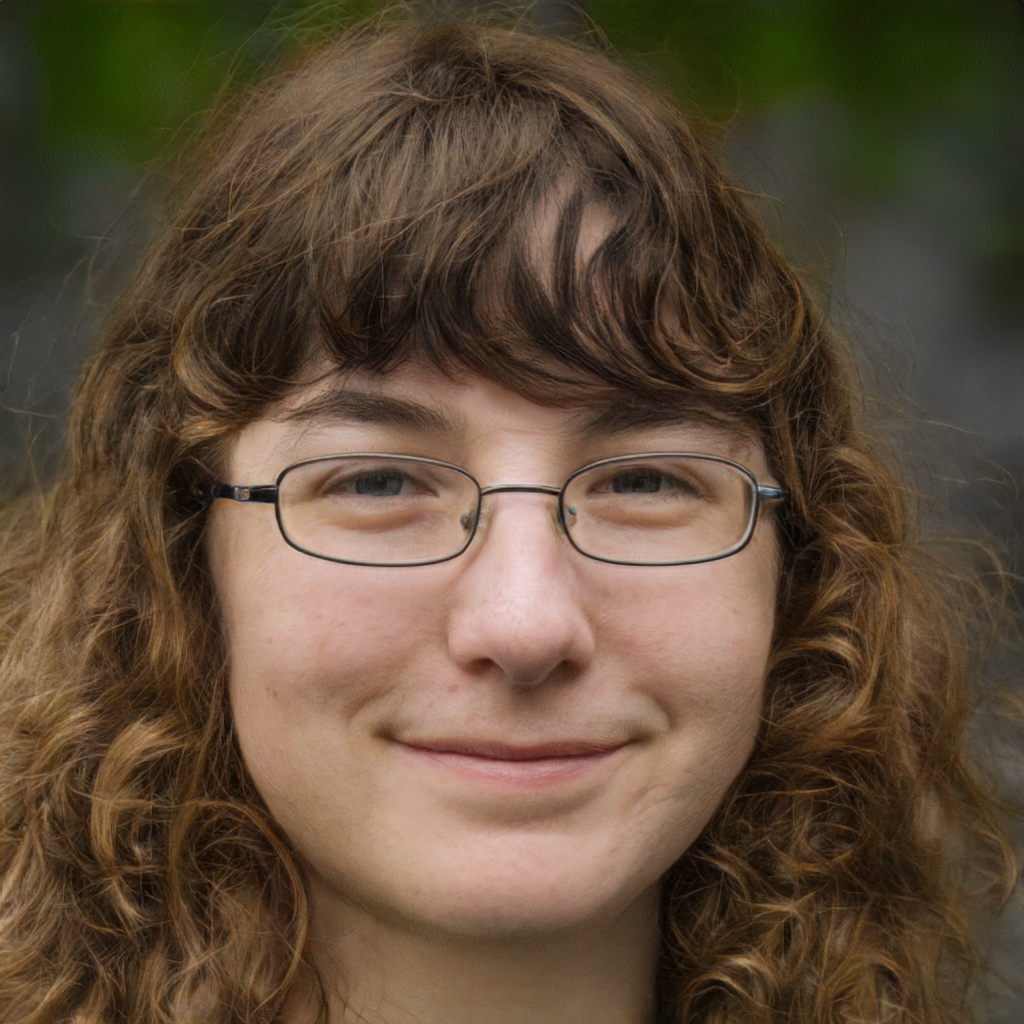
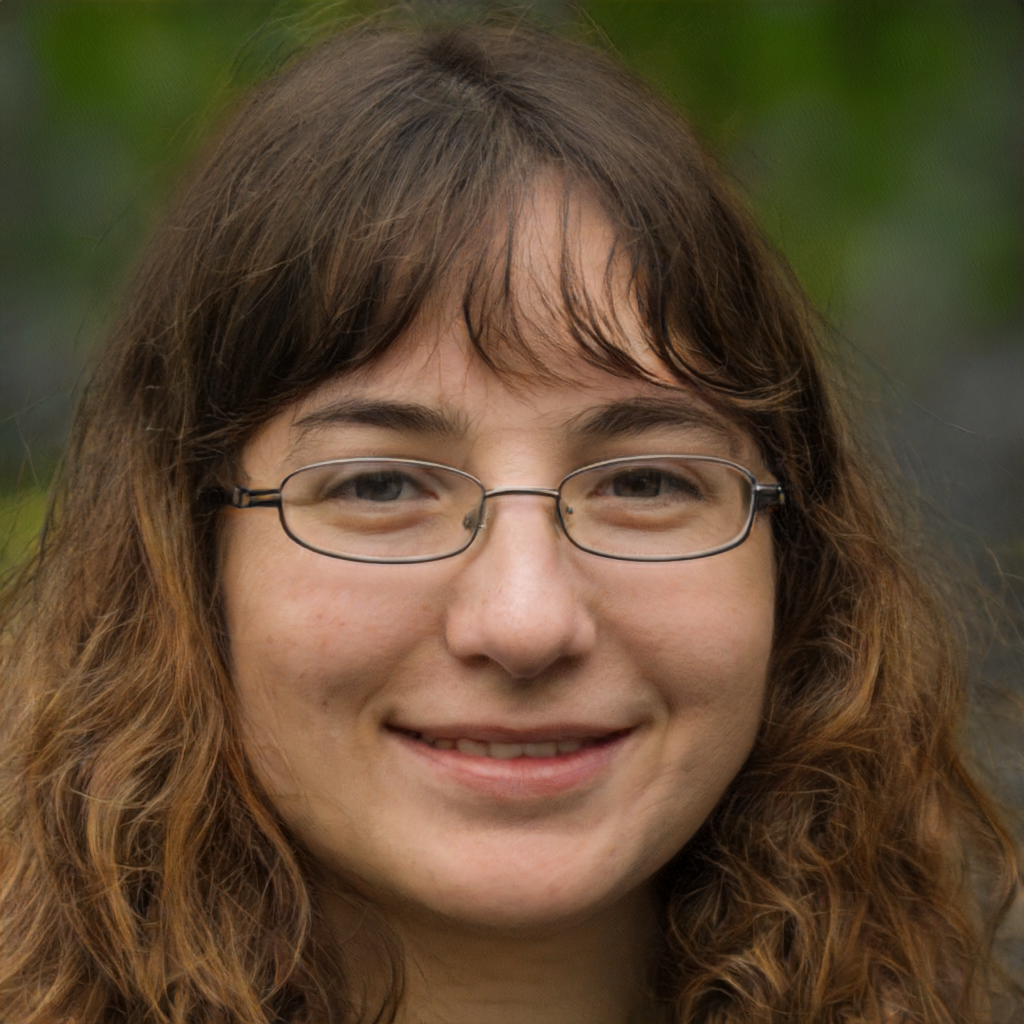
add function for various space of latent

diff --git a/Edit_Framework.py b/Edit_Framework.py
@@ -7,7 +7,7 @@ from NST.transfer_inference import style_transform
 from StyleGAN_edit.inference import random_gen,inference_core
 from StyleGAN_edit.InterFaceGAN import get_InterFaceGAN_move_direction
 from StyleGAN_edit.MakeUp import get_mixing_dlatent
-from Utils import get_file_name
+from Utils import get_file_name, latent_post_process
 from scipy import misc
 from tkinter import ttk   #用ttk的按钮，不会出现文字不显示的问题
 from Utils import check_dir
@@ -15,10 +15,11 @@ from tkinter import *
 from tkinter.filedialog import *
 from PIL import Image, ImageTk
 
+latent_str=["Z","W","W+"]
 image_height,image_width = 880, 880
 small_image_shape = (256, 256)
 org_path = "StyleGAN_edit/data/2020_09_21_13_06_52.jpg"
-latent_path = "StyleGAN_edit/data/2020_09_21_13_06_52.npy"
+latent_path = "StyleGAN_edit/data/2020_09_21_13_06_52_W.npy"
 
 class Edit_Framework():
     def __init__(self,master):
@@ -31,7 +32,8 @@ class Edit_Framework():
         #初始的一些配置
         self.temp_save_dir = check_dir("temp_dir")
         self.image_exp_NST = self.cur_image = self.org_image = misc.imread(org_path) #图像都是原1024 x 1024大小的，只不过到时候在panel中显示的时候会有缩放
-        self.cur_latent = self.org_lantent = np.load(latent_path)
+        self.cur_latent = self.org_lantent = latent_post_process(np.load(latent_path))
+        self.latent_type = "W"
         self.ATMGAN_edit_info = {}   #存放ATMGAN编辑需要的固定的属性配置(ATMGAN_org_info的子集)
         self.ATMGAN_factors = {}     #存放ATMGAN编辑每个属性属性的动态编辑因子
         self.ATMGAN_grid_info = {}   #存放当前需要使用ATMGAN编辑的属性中对应的激活张量位置和图像画的rect的id
@@ -125,7 +127,8 @@ class Edit_Framework():
             selection = InterFaceGAN_main_attrs_listbox.curselection()
             selection_str = InterFaceGAN_main_attrs_listbox.get(selection)
             main_attr_name_with_ind = selection_str[:selection_str.find(":")]
-            scale = float(selection_str[selection_str.find(":")+1:selection_str.find("--->")])
+
+            scale = float(selection_str[selection_str.find(":")+1:])
 
             self.main_attr_scale.set(scale)
             for ind, boundary_name in enumerate(boundary_names):
@@ -167,8 +170,8 @@ class Edit_Framework():
             InterFaceGAN_main_attrs_listbox.insert(insert_ind, "{0}: {1}".format(selection, scale))
 
             #2.向self.InterFace_edit_info添加信息
-            boundary = np.load(os.path.join("StyleGAN_edit/models/boundaries/for_latent_w", "{}_w/{}_boundary.npy".
-                                            format(selection, attr_name)))
+            boundary = np.load(os.path.join("StyleGAN_edit/models/boundaries/for_latent_{}".format(self.latent_type.lower()), "{}_{}/{}_boundary.npy".
+                                            format(selection, self.latent_type.lower(), attr_name)))
             self.InterFace_edit_info[selection]={'main_boundary': {'name': attr_name,
                                                                    'factor': scale,
                                                                    'main_boundary': boundary},
@@ -181,13 +184,13 @@ class Edit_Framework():
         add_btn.pack(side=TOP, pady=10, expand=NO)
 
         def delete_main_attr():
-            # 删除InterFaceGAN的编辑属性
+            # 删除InterFaceGAN的主编辑属性
             # 1. 先删除InterFaceGAN_main_attrs_listbox中对应的属性
             selection = InterFaceGAN_main_attrs_listbox.curselection()
             if len(selection) == 0:
                 return
             attr_name_with_ind = InterFaceGAN_main_attrs_listbox.get(selection).split(":")[0]
-            print("attr_name_with_ind:", attr_name_with_ind)
+            # print("attr_name_with_ind:", attr_name_with_ind)
             InterFaceGAN_main_attrs_listbox.delete(selection)
 
             # 2.删除self.InterFace_edit_info中对应的属性信息
@@ -196,7 +199,7 @@ class Edit_Framework():
         remove_btn = ttk.Button(temp_frame3, style="InterFaceGAN.TButton", text="移除", command=delete_main_attr)
         remove_btn.pack(side=TOP, expand=NO)
 
-        # 约束属性
+        # 约束属性相关
         temp_frame2 = Frame(frame, bg=color)
         temp_frame2.pack(side=TOP, pady=10)
         cond_attr_lab = ttk.Label(temp_frame2, text="约束属性:", style="InterFaceGAN.TLabel")
@@ -229,7 +232,7 @@ class Edit_Framework():
                     self.cond_attr_comb.current(ind)
 
             # 2.更新self.cond_attr_scale
-            scale = float(selection_str[selection_str.find(":") + 1:selection_str.find("--->")])
+            scale = float(selection_str[selection_str.find(":") + 1:])
             self.cond_attr_scale.set(scale)
 
         self.cond_attrs_listbox = Listbox(temp_frame4,width=30, height=5)
@@ -261,8 +264,8 @@ class Edit_Framework():
 
             # 2.向self.InterFace_edit_info添加该约束属性的信息
             cond_attr_name_no_num = cond_attr_name[cond_attr_name.find("_")+1:]
-            cond_boundary = np.load(os.path.join("StyleGAN_edit/models/boundaries/for_latent_w", "{}_w/{}_boundary.npy".
-                                                 format(cond_attr_name, cond_attr_name_no_num)))
+            cond_boundary = np.load(os.path.join("StyleGAN_edit/models/boundaries/for_latent_{}".format(self.latent_type.lower()), "{}_{}/{}_boundary.npy".
+                                                 format(cond_attr_name, self.latent_type.lower(), cond_attr_name_no_num)))
             self.InterFace_edit_info[main_attr_name_with_ind]["cond_boundaries"][cond_attr_name_no_num] = {'cond_factor': float(cond_attr_factor),
                                                                                                             'cond_boundary': cond_boundary}
 
@@ -292,32 +295,7 @@ class Edit_Framework():
         remove_btn = ttk.Button(temp_frame4, style="InterFaceGAN.TButton", text="移除", command=delete_condi_attr)
         remove_btn.pack(side=TOP, pady=10, expand=NO)
 
-    # def get_InterFaceGAN_edit_info(self):
-    #     # 获得InterFaceGAN的编辑信息
-    #     # 1.获取主编辑属性
-    #     main_attr_factor = self.main_attr_scale.get()
-    #     boundary_name = self.main_attr_comb.get()
-    #     boundary = np.load(os.path.join("StyleGAN_edit/models/boundaries/for_latent_w", "{}_w/{}_boundary.npy".
-    #                                     format(boundary_name, boundary_name[boundary_name.find("_") + 1:])))
-    #     InterFaceGAN_edit_info = {"main_boundary": {'name': 'Mouth_Slightly_Open',
-    #                                                 'factor': main_attr_factor,
-    #                                                 'main_boundary': boundary},
-    #                               "cond_boundaries": {}}
-    #     # 2.获取约束属性
-    #     cond_nums = self.cond_attrs_listbox.size()
-    #     for ind in range(cond_nums):
-    #         edit_info = self.cond_attrs_listbox.get(ind)
-    #         cond_boundary_name, cond_factor = edit_info.split(":")
-    #         cond_boundary_name_no_num = cond_boundary_name[cond_boundary_name.find("_") + 1:]
-    #         cond_boundary = np.load(os.path.join("StyleGAN_edit/models/boundaries/for_latent_w", "{}_w/{}_boundary.npy".
-    #                                              format(cond_boundary_name, cond_boundary_name_no_num)))
-    #         # print(cond_boundary_name, cond_factor, cond_boundary_name_no_num)  # 5_Bangs 0.71 Bangs
-    #
-    #         InterFaceGAN_edit_info["cond_boundaries"][cond_boundary_name_no_num] = {'cond_factor': float(cond_factor),
-    #                                                                                 'cond_boundary': cond_boundary}
-    #     return InterFaceGAN_edit_info
-
-    # 鼠标单击人脸图像界面发生的事件-画某个单元格或清除某个单元格
+    # 鼠标单击人脸图像界面发生的事件-画某个单元格
     def facePanelClick(self, event):
         # 获得当前画网格是在哪个局部属性下面
         attr_name = self.ATMGAN_attrs_comb.get()
@@ -337,7 +315,7 @@ class Edit_Framework():
         self.ATMGAN_grid_info[attr_name]["location"][location_id] = self.draw_single_grid(reso, location_id)
         # print("Add:", len(self.ATMGAN_grid_info[attr_name]["location"]),"-----", self.ATMGAN_grid_info[attr_name]["location"])
 
-    # 右击清除单元格
+    # 鼠标单击人脸图像界面发生的事件-右击清除单元格
     def facePanelClick_right(self, event):
         attr_name = self.ATMGAN_attrs_comb.get()
         if attr_name not in self.ATMGAN_grid_info.keys():
@@ -366,7 +344,7 @@ class Edit_Framework():
         return rect_id
 
     def update_ATMGAN_edit_info(self):
-        for attr_name,edit_info in self.ATMGAN_edit_info.items():
+        for attr_name, edit_info in self.ATMGAN_edit_info.items():
             new_location_ids = [k for k,v in self.ATMGAN_grid_info[attr_name]["location"].items()]
             # print("new_location_ids:",new_location_ids)
             self.ATMGAN_edit_info[attr_name]["location"] = new_location_ids
@@ -382,6 +360,7 @@ class Edit_Framework():
         moved_latent = self.org_lantent
         for selection, attr_edit_info in self.InterFace_edit_info.items():
             moved_latent, edit_info = get_InterFaceGAN_move_direction(moved_latent, attr_edit_info)
+            print("InterFaceGAN_edit_info:",edit_info)
         # 单独使用InterFaceGAN进行编辑(inference时候不考虑Style_Mixing和ATMGAN)
         # # 这里暂时让InterFaceGAN都是最原始的latent上进行编辑,后续可能考虑添加一个选项,
         # # 让使用者决定是从原始开始编辑还是从当前InterFaceGAN的编辑结果进一步编辑,改动的话,这里只需要将self.org_lantent变为self.cur_latent就行
@@ -392,11 +371,11 @@ class Edit_Framework():
         # 2.1先根据之前再人脸图像中画各个属性下的网格更新ATMGAN_edit_info
         self.update_ATMGAN_edit_info()
         # 2.2然后再使用ATMGAN编辑结果图
-        self.ATMGAN_feed = get_ATMGAN_feed(self.ATMGAN_edit_info,self.ATMGAN_factors)
+        self.ATMGAN_feed = get_ATMGAN_feed(self.ATMGAN_edit_info, self.ATMGAN_factors)
 
         start_time = time.time()
         # print("self.cur_latent:",self.cur_latent[0][:10])
-        edit_res = inference_core(self.cur_latent, self.ATMGAN_feed)
+        edit_res = inference_core(self.cur_latent, self.ATMGAN_feed, latent_type=self.latent_type)
         end_time = time.time()
         # print("----------")
 
@@ -411,9 +390,9 @@ class Edit_Framework():
 
         # 开始在W+空间进行Style_Mixing得到混合后的隐向量
         makeUp_name = self.makeUp_comb.get()
-        makeUp_latent = np.load("StyleGAN_edit/MakeUp/makeup_latents/{}.npy".format(makeUp_name))
+        makeUp_latent = latent_post_process(np.load(latent_path))
 
-        mixing_dlatent = get_mixing_dlatent(self.cur_latent, makeUp_latent)
+        mixing_dlatent = get_mixing_dlatent(self.cur_latent, makeUp_latent, latent1_type = self.latent_type)
 
         start_time = time.time()
         edit_res = inference_core(mixing_dlatent, self.ATMGAN_feed, latent_type="W+")
@@ -510,7 +489,8 @@ class Edit_Framework():
             attr_name = self.ATMGAN_attrs_comb.get()
             attr_factor = ATMGAN_scale.get()
             attr_info = ATMGAN_org_info[attr_name]
-            # 1.listbox中添加相关信息
+
+            # 1.listbox中添加或更新相关属性的信息
             attr_nums = self.ATMGAN_attrs_listbox.size()
             insert_ind = END
             for ind in range(attr_nums):
@@ -520,19 +500,26 @@ class Edit_Framework():
                     break
             self.ATMGAN_attrs_listbox.insert(insert_ind, "{0}: {1}--->{2}x{2}   [{3}]".format(attr_name, attr_factor, attr_info["resolution"],
                                                                                        ",".join([str(x) for x in attr_info["fmap"]])))
-            # 2.ATMGAN_edit_info添加相关信息
-            self.ATMGAN_edit_info[attr_name] = attr_info
+
+            # 2.ATMGAN_edit_info添加相关信息(如果原来添加过了,那么就不用动了,不然可能会把之前修增加/移除过的网格复原)
+            if attr_name not in self.ATMGAN_edit_info.keys():
+                self.ATMGAN_edit_info[attr_name] = attr_info
+
             # 3.ATMGAN_factors添加相关信息
             self.ATMGAN_factors[attr_name] = attr_factor
-            # 4.删除图像界面中已经有的所有网格
-            self.face_ImagePanel.delete(ALL)  #先把Canves上的内容全删了delete(ALL), 然后再重新画上人脸图
-            self.update_imagePanel(0.00,draw_grid=True)
-
-            # 5.在图像中添加网格表示该属性的待编辑区域
+            # 4.删除图像界面中已经有的所有网格(即先把Canves上的内容全删了delete(ALL))
+            self.face_ImagePanel.delete(ALL)
             # 初始化self.ATMGAN_grid_info[attr_name]中的"resolution"信息和"location"信息
-            self.ATMGAN_grid_info[attr_name]={"resolution": attr_info["resolution"]}
-            self.ATMGAN_grid_info[attr_name]["location"]={k:-1 for k in attr_info["location"]}  #初始值全部为-1，表明还没开始画
-            self.draw_edit_grid(attr_name)  #重新绘制self.ATMGAN_grid_info[attr_name]中的包含的网格信息
+            # (同样,如果原来ATMGAN_grid_info已经有了该属性的信息那么就用最新的)
+            if attr_name not in self.ATMGAN_grid_info.keys():
+                self.ATMGAN_grid_info[attr_name] = {"resolution": attr_info["resolution"]}
+                self.ATMGAN_grid_info[attr_name]["location"] = {k: -1 for k in attr_info["location"]}  # 初始值全部为-1，表明还没开始画
+
+            # print("Add/Update:", len(self.ATMGAN_grid_info[attr_name]["location"]), "-----",
+            #       self.ATMGAN_grid_info[attr_name]["location"])
+
+            # 5.在图像中添加或更新网格,表示该属性当前最新的待编辑区域
+            self.update_imagePanel(0.00,draw_grid=True)  #重新绘制self.ATMGAN_grid_info[attr_name]中的包含的网格信息
 
         add_btn = ttk.Button(temp_frame1, style="AMTGAN.TButton", text="添加/更新", command=add_ATMGAN_edit_attr)
         add_btn.pack(side=TOP, pady=5)
@@ -681,7 +668,7 @@ class Edit_Framework():
         return ImgPanel
 
     def get_boundaries(self):
-        dir = "StyleGAN_edit/models/boundaries/for_latent_w"
+        dir = "StyleGAN_edit/models/boundaries/for_latent_{}".format(self.latent_type.lower())
         boundary_names = []
         for boundary_name in os.listdir(dir):
             boundary_names.append(boundary_name[:boundary_name.rfind("_")])
@@ -703,8 +690,10 @@ class Edit_Framework():
         file_path = askopenfilename(title='选择隐向量',initialdir="StyleGAN_edit/data")  # initialdir=(os.path.expanduser("")
 
         start_time = time.time()
-        latent = np.load(file_path)
-        image = inference_core(input_feed=latent)
+        latent = latent_post_process(np.load(file_path))
+        self.latent_type = latent_str[self.latent_choice.get()]
+        print("self.latent_type:",self.latent_type)
+        image = inference_core(latent, latent_type=self.latent_type)
         end_time = time.time()
         # 加载隐向量那么久重新绘图,会修改self.cur_image和self.org_image,
         # 也会修改self.cur_latent和self.org_lantent

diff --git a/StyleGAN_edit/inference.py b/StyleGAN_edit/inference.py
@@ -13,9 +13,10 @@ with tf.gfile.FastGFile(model_path, "rb") as fr:
     tf.import_graph_def(graph_def, name="")
 
 stylegan2_sess.run(tf.global_variables_initializer())
-z_latent_place = stylegan2_sess.graph.get_tensor_by_name('Gs/G_mapping/new_latent:0')
-w_latent_place = stylegan2_sess.graph.get_tensor_by_name('Gs/G_mapping/Dense7/mul_2:0')  #w空间
-wPlus_latent_place = stylegan2_sess.graph.get_tensor_by_name("Gs/G_synthesis/dlatents_in:0")
+z_latent_place = stylegan2_sess.graph.get_tensor_by_name('Gs/G_mapping/new_latent:0')                # Z空间[1,512]
+w_latent_place = stylegan2_sess.graph.get_tensor_by_name('Gs/G_mapping/Dense7/mul_2:0')              # W空间[1,512]
+wPlus_latent_place = stylegan2_sess.graph.get_tensor_by_name("Gs/G_mapping/Broadcast/Tile:0")        # W+空间[1,18,512](W空间简单复制18份)
+# half_wPlus_latent_place = stylegan2_sess.graph.get_tensor_by_name("Gs/G_synthesis/dlatents_in:0")    # W+空间每个元素减半[1,18,512](暂时可不用)
 image_place = stylegan2_sess.graph.get_tensor_by_name('Gs/G_synthesis/output:0')
 
 '''
@@ -34,7 +35,7 @@ def get_sesssion():
 # 初始化: 4.745085954666138 s
 # 预热后: 3.3608760833740234 s
 # 参数中的input_feed只是ATMGAN中需要用的,还没牵扯到latent
-def inference_core(latent, input_feed, latent_type="W", out_node="Image"):
+def inference_core(latent, input_feed=None, latent_type="W", out_node="Image"):
     if input_feed is None:
         input_feed={}
 
@@ -80,8 +81,14 @@ def random_gen():
     return latent, image_stylized
 
 if __name__ == '__main__':
-    latent_path = "data/2020_09_21_13_06_52.npy"
+    latent_path = "data/Leonardo_W+.npy"
     latent = np.load(latent_path)
-    for _ in range(10):
-        # random_gen()
-        inference_core(latent, None, "W", "Image")
+    # print(latent[:,:10])
+    w_plus = inference_core(latent[np.newaxis,:], None, latent_type="W+")
+    # print("-----------")
+    # print(w_plus.shape, np.sum(w_plus[0, 1, :]))
+    # print(w_plus)
+
+    # for _ in range(10):
+    #     # random_gen()
+    #     inference_core(latent, None, "W", "Image")

diff --git a/StyleGAN_edit/MakeUp.py b/StyleGAN_edit/MakeUp.py
@@ -2,11 +2,11 @@ from scipy import misc
 import numpy as np
 from inference import inference_core
 
-def get_mixing_dlatent(latent1, latent2, K=8):
+def get_mixing_dlatent(latent1, latent2, K=8 ,latent1_type="W", latent2_type="W"):
     # 通过w空间得到
     # 这里w+空间的delatent1不是latent1简单复制18份得到的(可能找的张量名不太对,但是不影响编辑)
-    delatent1 = inference_core(latent1, None, latent_type="W", out_node="W+")
-    delatent2 = inference_core(latent2, None, latent_type="W", out_node="W+")
+    delatent1 = inference_core(latent1, None, latent_type=latent1_type, out_node="W+")
+    delatent2 = inference_core(latent2, None, latent_type=latent2_type, out_node="W+")
 
     # 0,2, 4, 6, 8, 10, 12, 14,  16
     # [4,8,16,32,64,128,256,512,1024]

diff --git a/StyleGAN_edit/InterFaceGAN.py b/StyleGAN_edit/InterFaceGAN.py
@@ -20,10 +20,10 @@ from inference import get_sesssion, inference_core
 # Pale_skin: boundaries/for_latent_w/26_Pale_Skin_w/Pale_Skin_boundary.npy
 
 # save_dir = check_dir("golbal_edit_res/")
-edit_factor = 1.0   #主要编辑方向的编辑步长
-main_boundary_path = "models/boundaries/for_latent_w/21_Mouth_Slightly_Open_w/Mouth_Slightly_Open_boundary.npy"
+edit_factor = -5.6   #主要编辑方向的编辑步长
+main_boundary_path = "models/boundaries/for_latent_w/15_Eyeglasses_w/Eyeglasses_boundary.npy"
 #限制条件即对应的限制程度
-cond_boundary_dict_org = {"models/boundaries/for_latent_w/5_Bangs_w/Bangs_boundary.npy": 1.0}
+cond_boundary_dict_org = {"models/boundaries/for_latent_w/5_Bangs_w/Bangs_boundary.npy": 4.88}
 
 latent_path = "data/2020_09_21_13_06_52.npy"
 

diff --git a/Utils.py b/Utils.py
@@ -6,6 +6,11 @@ def check_dir(dir):
         os.makedirs(dir)
     return dir
 
+def latent_post_process(latent):
+    if latent.shape[0]==1:
+        return latent
+    return np.expand_dims(latent,axis=0)
+
 def get_file_name(path, keep_ext = True):
     name = os.path.basename(path)
     return name if keep_ext else os.path.splitext(name)[0]
